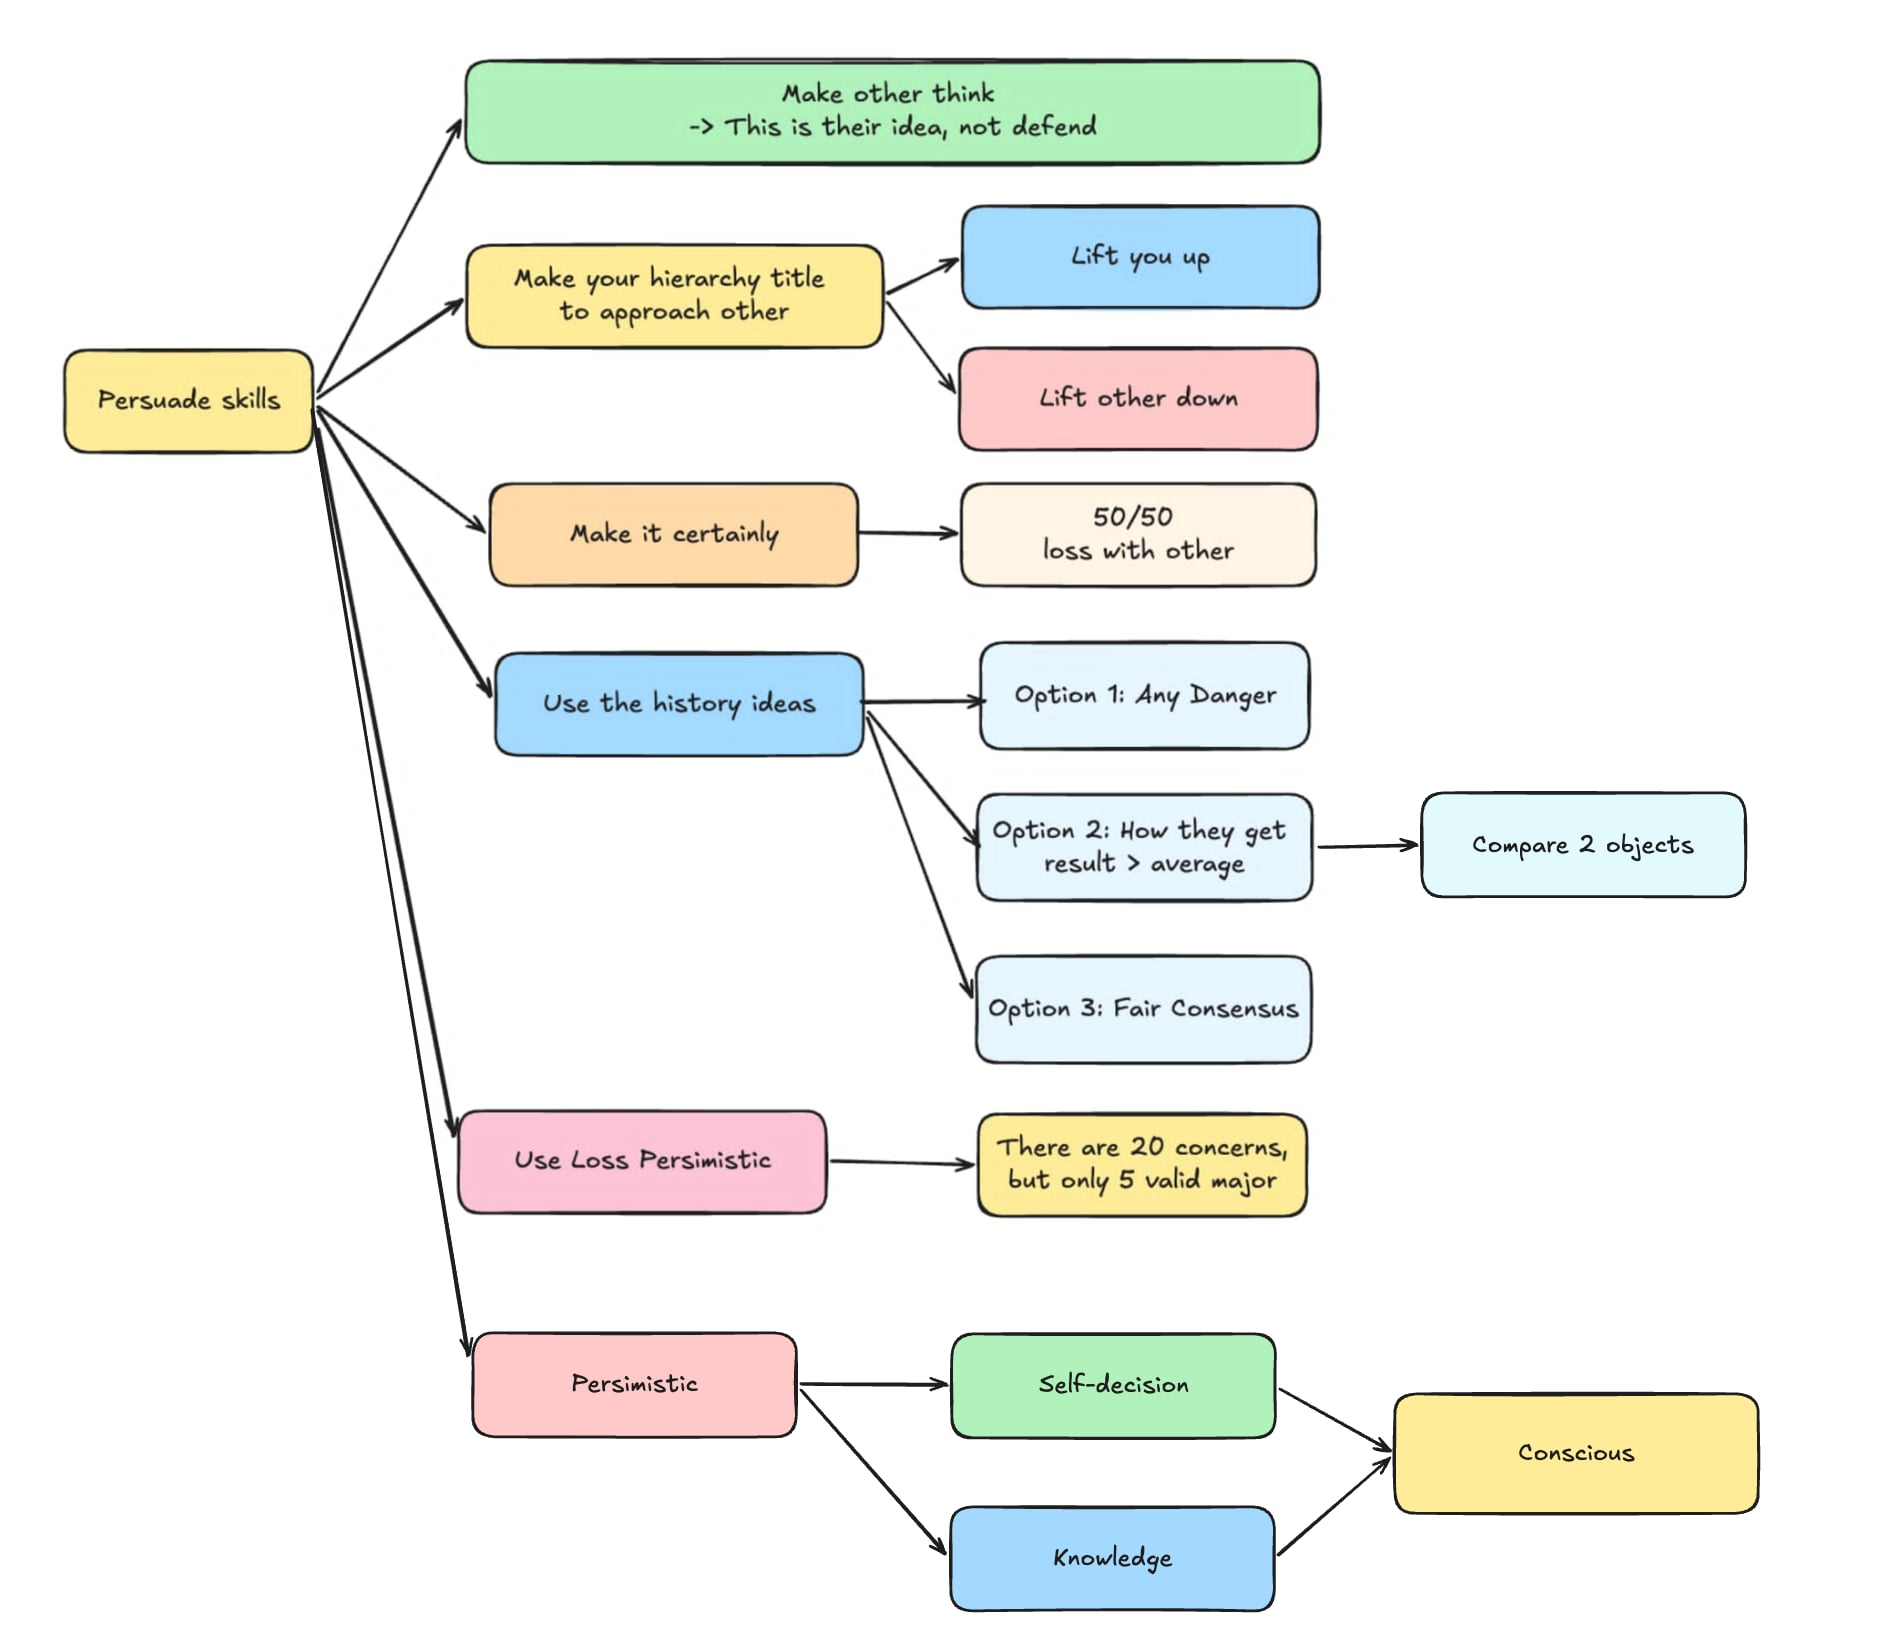
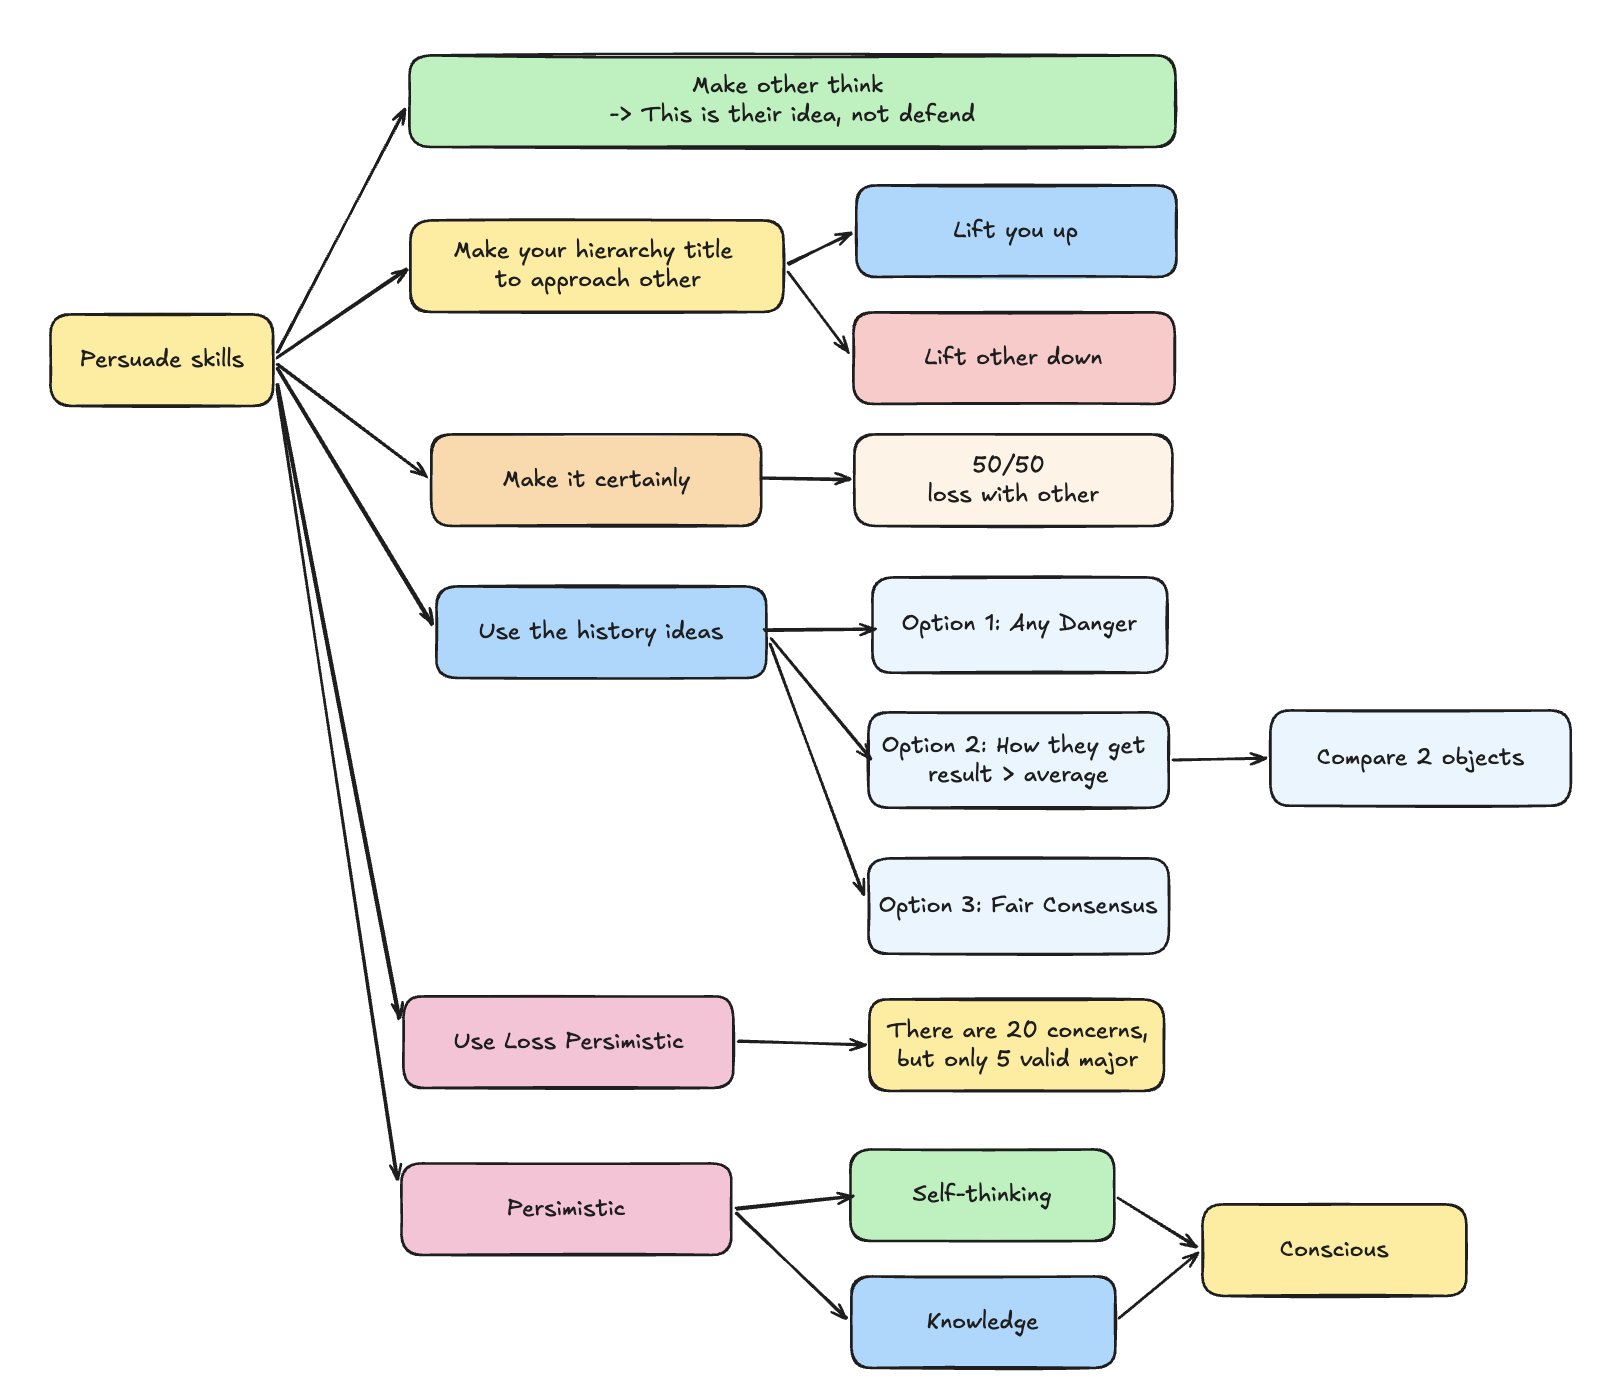
feat: add deploy

Changed region(s): [[0.0311, 0.0308, 0.9328, 0.9843]]

diff --git a/_layouts/default.html b/_layouts/default.html
@@ -599,6 +599,8 @@
           <img src="https://anduckhmt1406.site/images/lie-and-truth.jpeg" />
           <li>Persuade Skills - Get them to do what you want</li>
           <img src="https://anduckhmt1406.site/images/persuade-skills.png" />
+          <li>Buyers and Sellers - Understand the needs of the other party</li>
+          <img src="https://anduckhmt1406.site/images/buyers-and-sellers.png" />
         </ul>
       </details>
 
